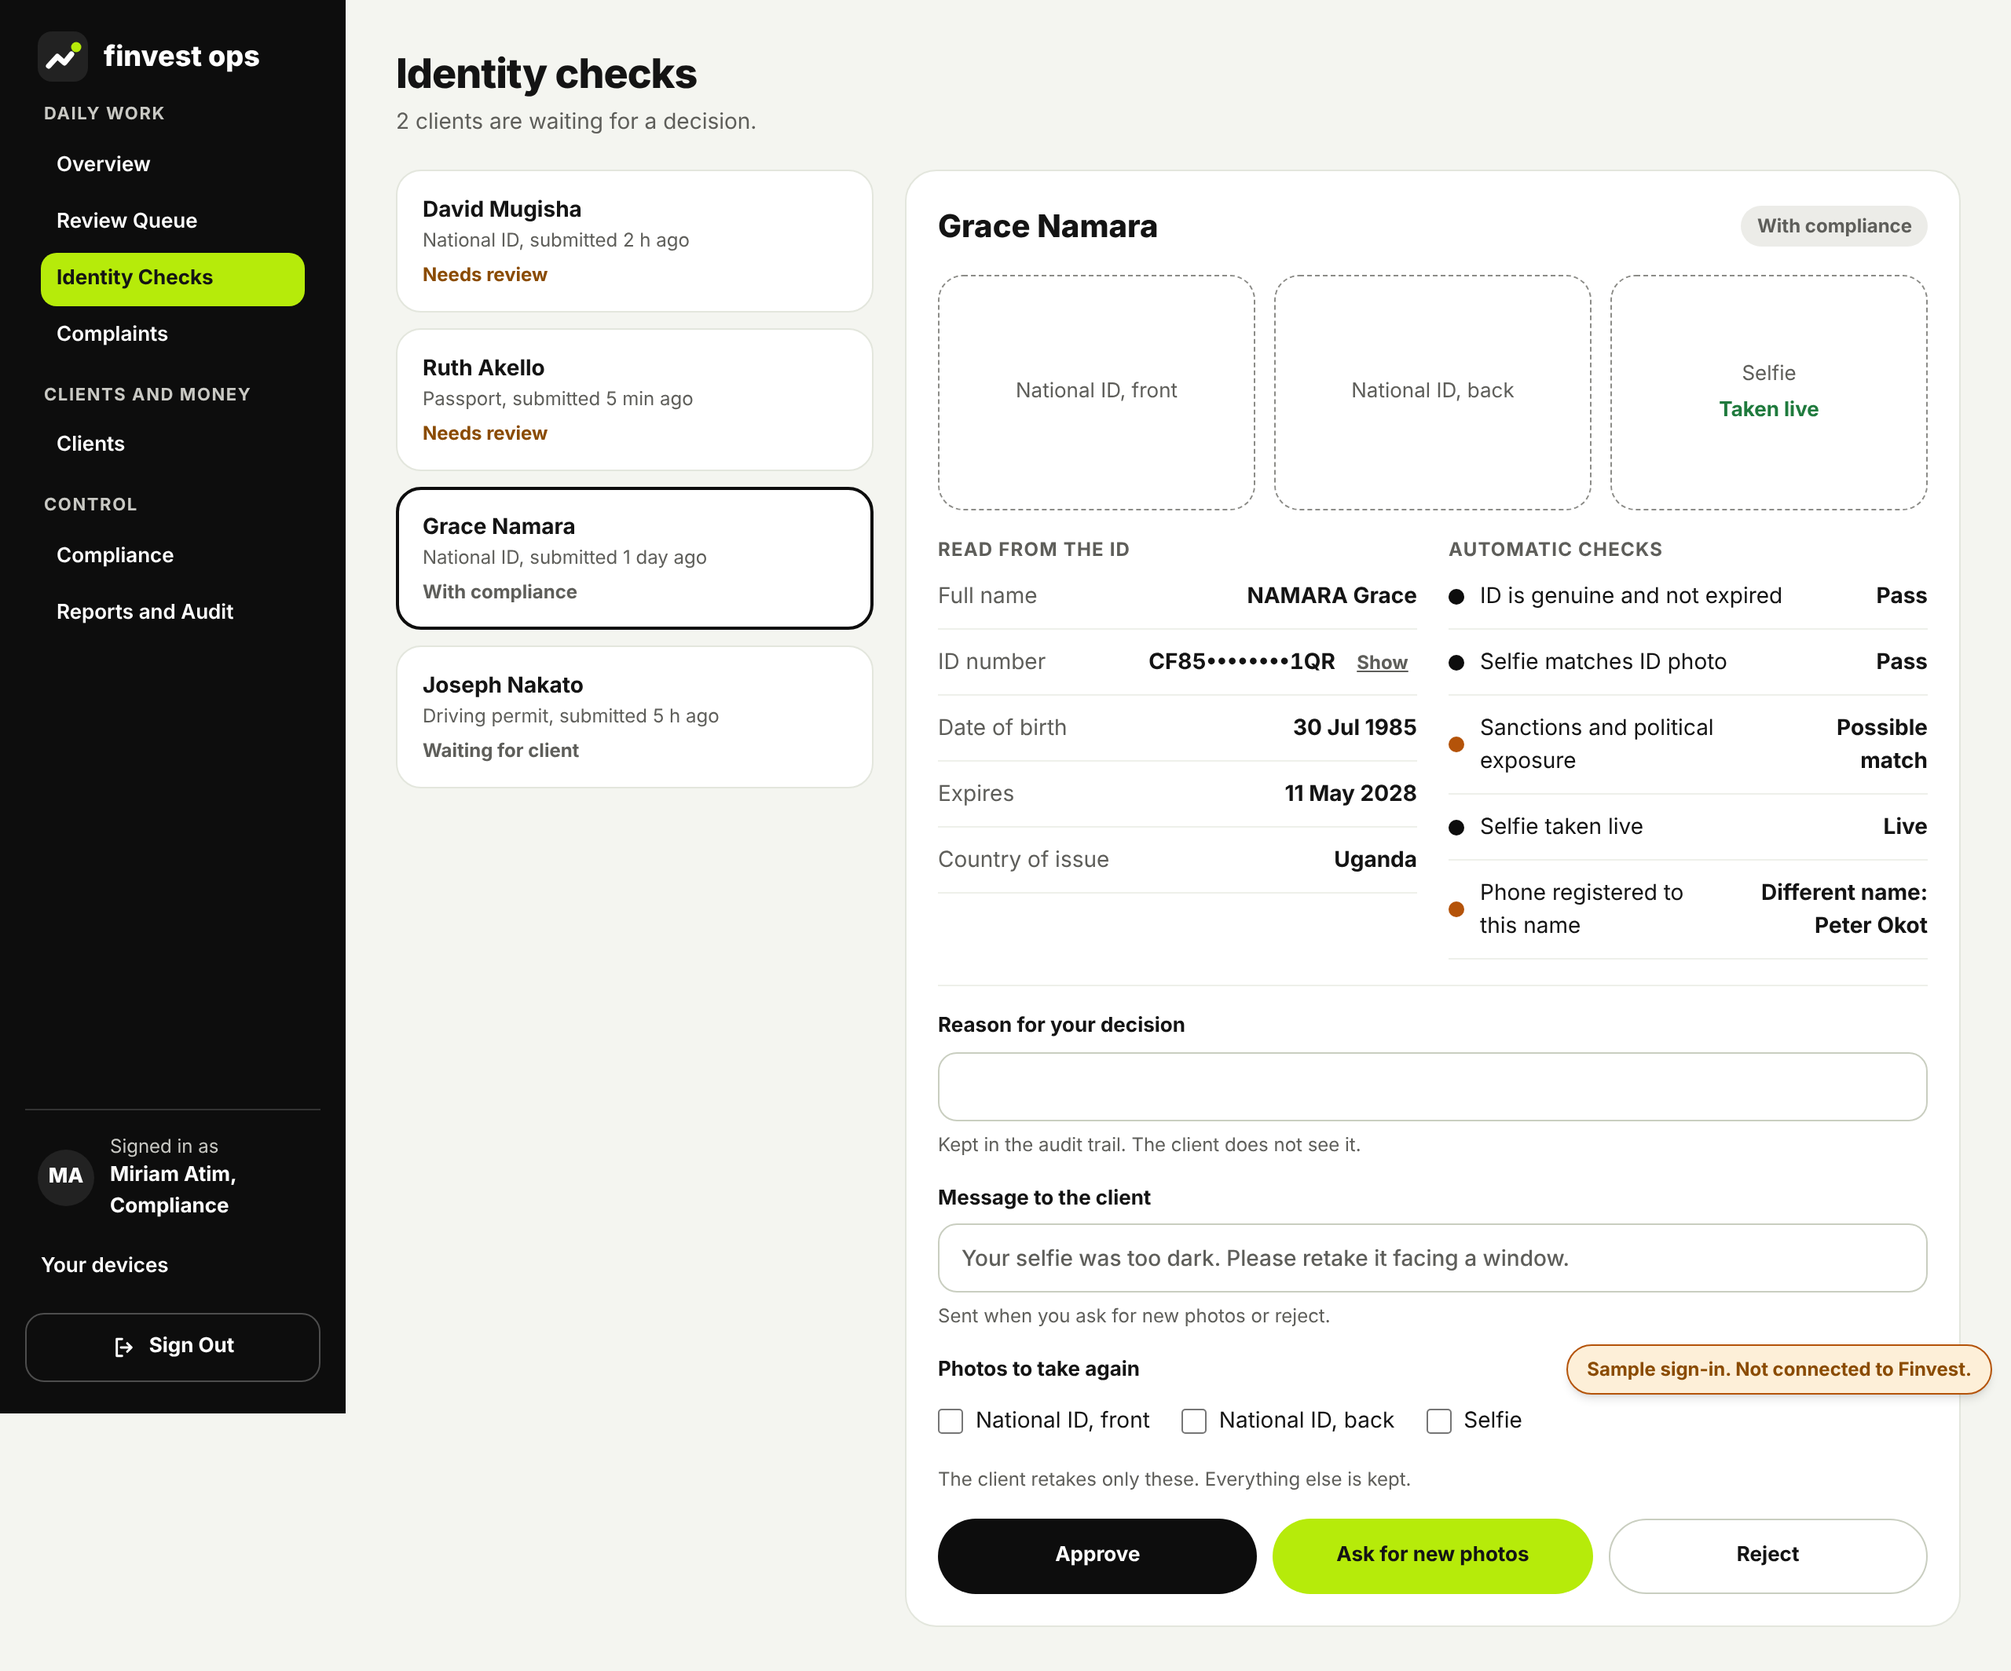
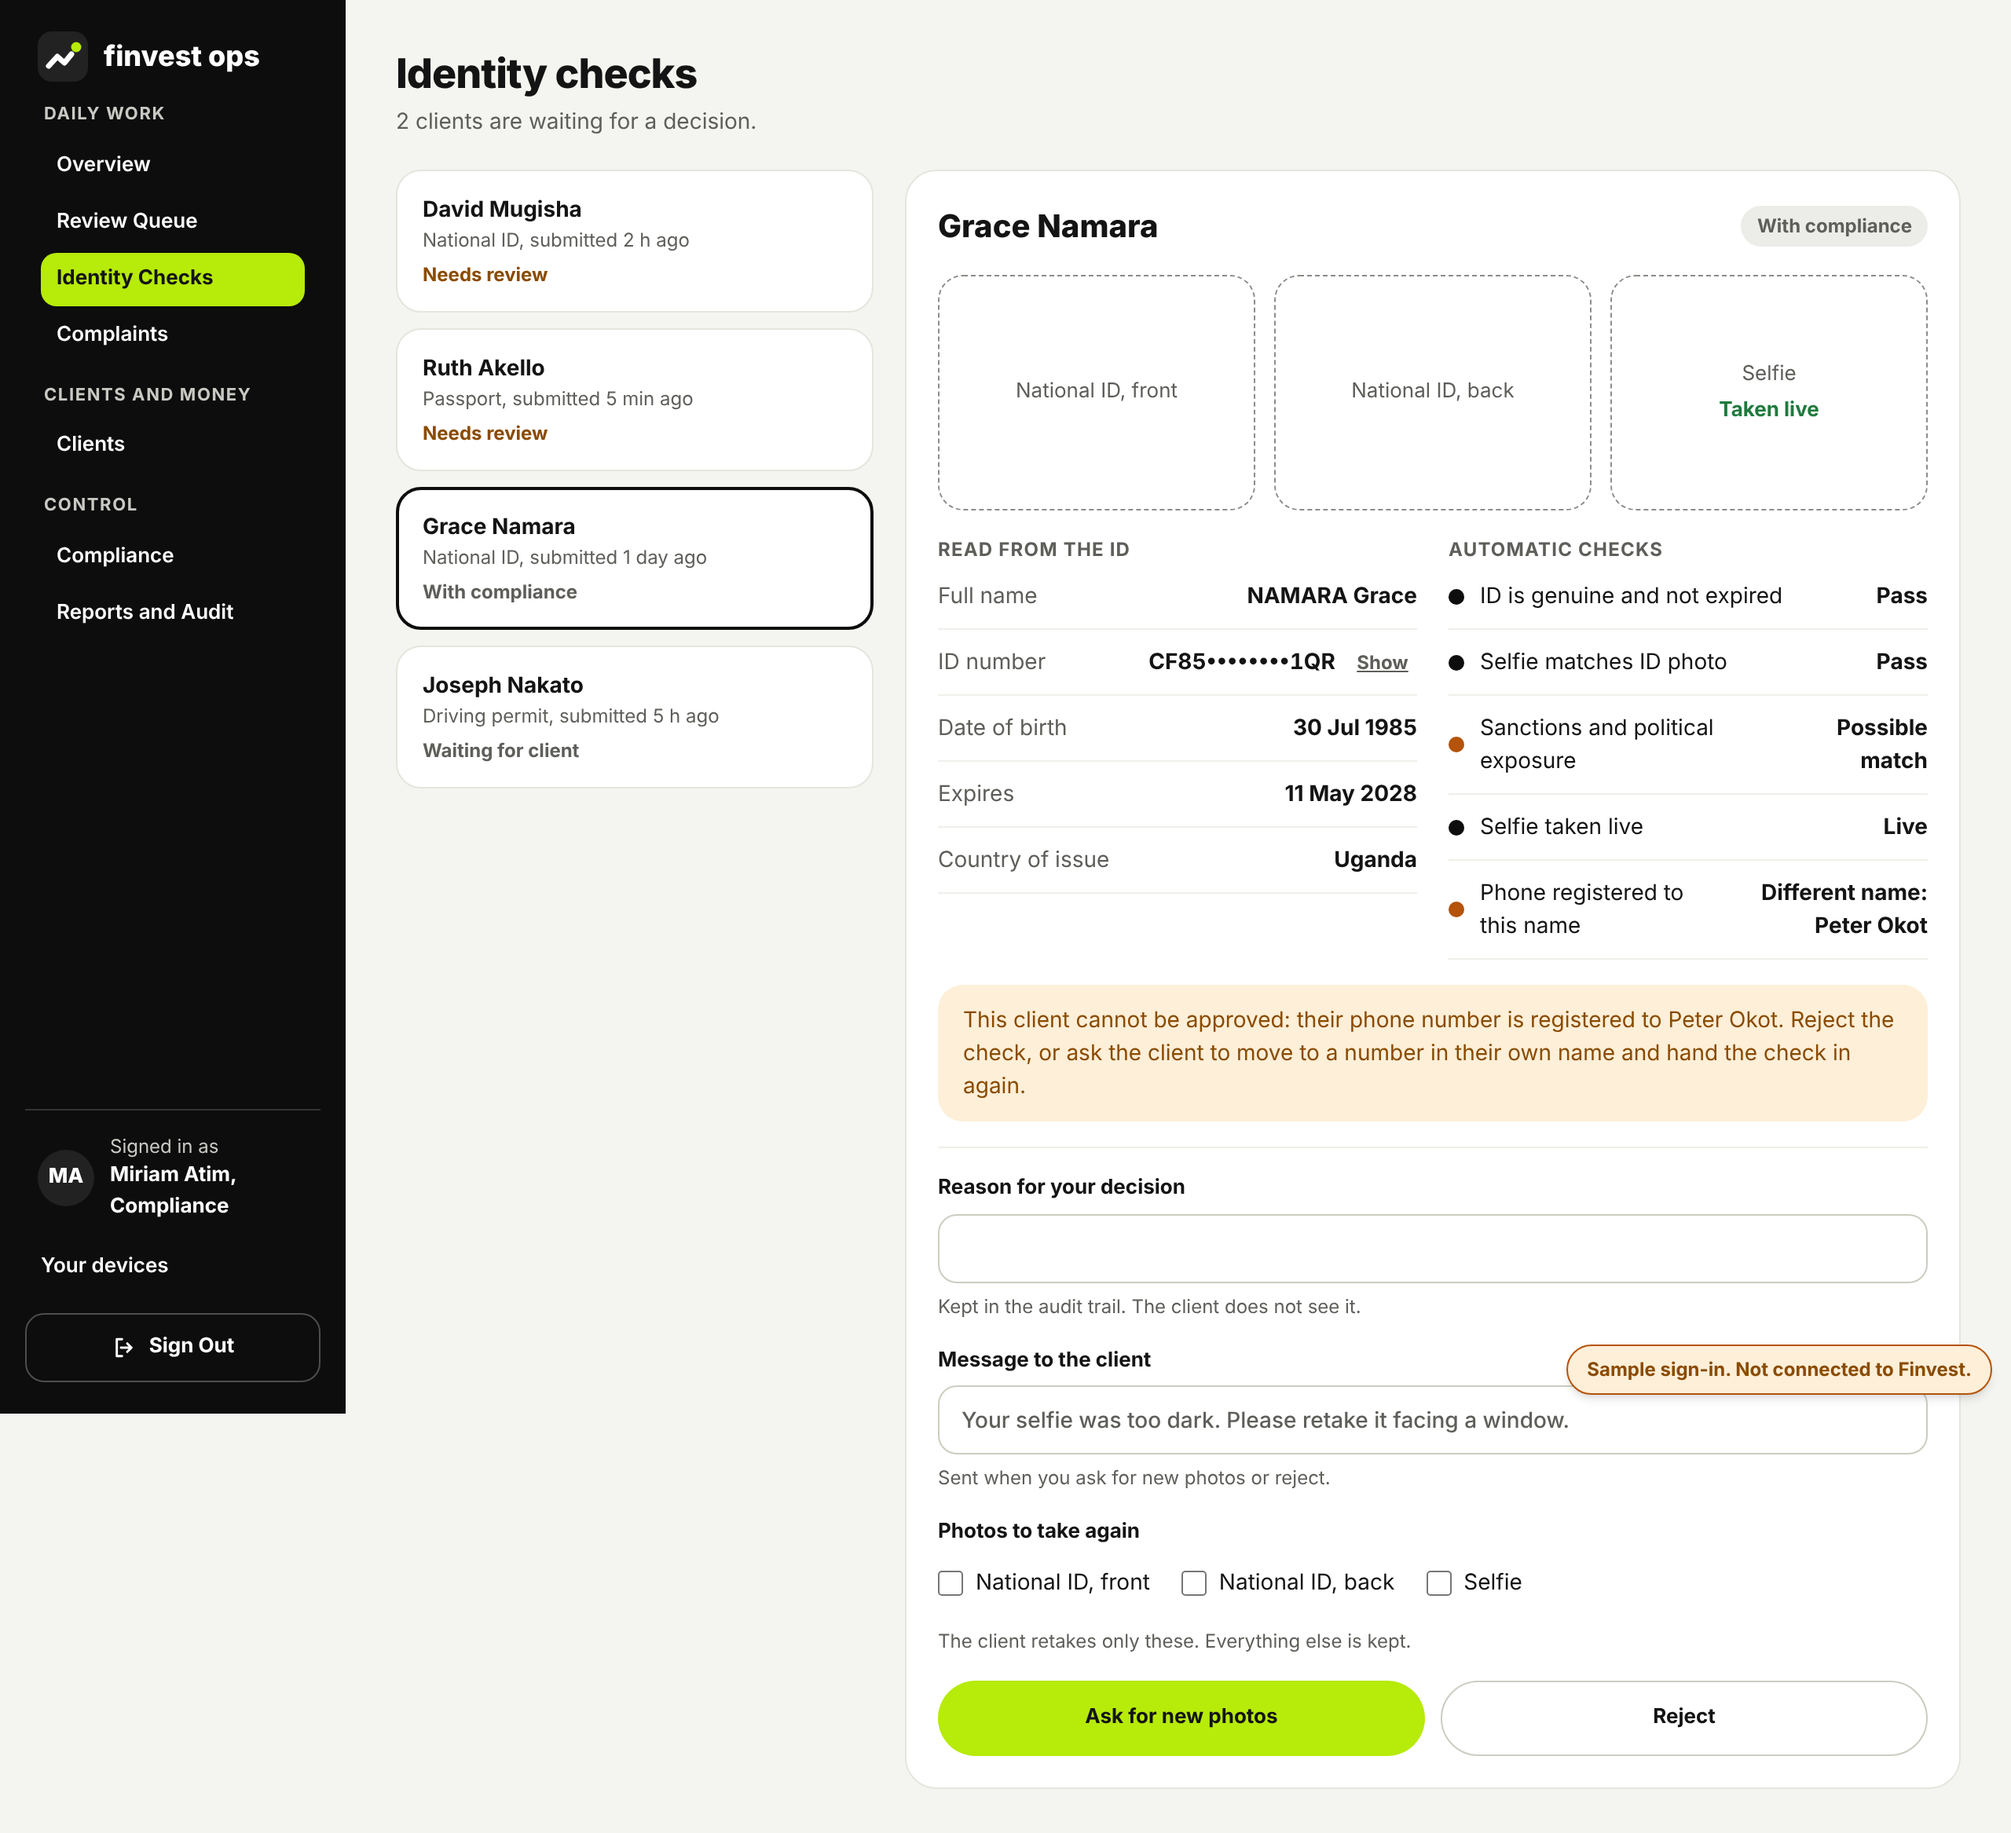
Say why a check cannot be approved when the phone is in another name

diff --git a/apps/console/src/screens/identity-checks/http.ts b/apps/console/src/screens/identity-checks/http.ts
@@ -38,7 +38,12 @@ interface CheckJson extends QueueJson {
   document_expires_on: string | null;
   photos: { id: string; kind: PhotoKind; live?: boolean }[];
   automatic_checks: AutomaticCheck[];
-  phone_name?: { status: PhoneNameStatus; registered_name: string | null } | null;
+  phone_name?: {
+    status: PhoneNameStatus;
+    registered_name: string | null;
+    current_number?: boolean;
+    blocks_approval?: boolean;
+  } | null;
   retake_photos: PhotoKind[];
   client_message: string | null;
   account_number: string | null;
@@ -79,7 +84,14 @@ export function toCheck(json: CheckJson, links: PhotoLinksJson | null): CheckDet
       live: photo.live === true,
     })),
     automaticChecks: json.automatic_checks.map((item) => ({ check: item.check, verdict: item.verdict, score: item.score })),
-    phoneName: json.phone_name ? { status: json.phone_name.status, registeredName: json.phone_name.registered_name } : null,
+    phoneName: json.phone_name
+      ? {
+          status: json.phone_name.status,
+          registeredName: json.phone_name.registered_name,
+          currentNumber: json.phone_name.current_number !== false,
+          blocksApproval: json.phone_name.blocks_approval === true,
+        }
+      : null,
     retakePhotos: json.retake_photos,
     clientMessage: json.client_message,
     accountNumber: json.account_number,

diff --git a/apps/console/src/screens/identity-checks/stub.ts b/apps/console/src/screens/identity-checks/stub.ts
@@ -49,7 +49,7 @@ function sampleChecks(): CheckDetail[] {
         { check: "screening", verdict: "pass", score: null },
         { check: "liveness", verdict: "pass", score: null },
       ],
-      phoneName: { status: "matches", registeredName: "David Mugisha" },
+      phoneName: { status: "matches", registeredName: "David Mugisha", currentNumber: true, blocksApproval: false },
       retakePhotos: [],
       clientMessage: null,
       accountNumber: null,
@@ -96,11 +96,12 @@ function sampleChecks(): CheckDetail[] {
         { check: "screening", verdict: "unsure", score: null },
         { check: "liveness", verdict: "pass", score: null },
       ],
-      phoneName: { status: "different", registeredName: "Peter Okot" },
+      phoneName: { status: "different", registeredName: "Peter Okot", currentNumber: true, blocksApproval: true },
       retakePhotos: [],
       clientMessage: null,
       accountNumber: null,
-      allowed: COMPLIANCE,
+      // The phone is registered to someone else, so the backend leaves approve out.
+      allowed: COMPLIANCE.filter((decision) => decision !== "approve"),
     }),
     sample({
       id: "-OdSample0000000004A",

diff --git a/apps/console/src/screens/identity-checks/index.test.tsx b/apps/console/src/screens/identity-checks/index.test.tsx
@@ -75,11 +75,16 @@ describe("identity checks screen", () => {
     const matches = within(first).getByText("Phone registered to this name").closest("li");
     expect(matches).toHaveTextContent("Matches");
     expect(matches).not.toHaveTextContent("David Mugisha");
+    expect(within(first).queryByRole("note")).toBeNull();
     await user.click(screen.getByRole("button", { name: /Grace Namara/ }));
     const third = await openCheck("Grace Namara");
     expect(within(third).getByText("Phone registered to this name").closest("li")).toHaveTextContent(
       "Different name: Peter Okot",
     );
+    // A different name blocks approval: no Approve, and the reason in words.
+    expect(within(third).queryByRole("button", { name: "Approve" })).toBeNull();
+    expect(within(third).getByRole("button", { name: "Reject" })).toBeInTheDocument();
+    expect(within(third).getByRole("note")).toHaveTextContent("their phone number is registered to Peter Okot");
   });
 
   it("opens another check from the queue and says when no automatic checks ran", async () => {

diff --git a/apps/console/src/screens/identity-checks/labels.test.ts b/apps/console/src/screens/identity-checks/labels.test.ts
@@ -1,0 +1,18 @@
+import { describe, expect, it } from "vitest";
+import { phoneNameVerdict } from "./labels.ts";
+
+describe("phoneNameVerdict", () => {
+  const phone = { registeredName: "Peter Okot", currentNumber: true, blocksApproval: false } as const;
+
+  it("names the network's name only when it is not the ID's", () => {
+    expect(phoneNameVerdict({ ...phone, status: "matches" })).toBe("Matches");
+    expect(phoneNameVerdict({ ...phone, status: "different", blocksApproval: true })).toBe("Different name: Peter Okot");
+    expect(phoneNameVerdict({ ...phone, status: "checking", registeredName: null })).toBe("Checking");
+  });
+
+  it("says when the result is about a number the client no longer uses", () => {
+    expect(phoneNameVerdict({ ...phone, status: "different", currentNumber: false })).toBe(
+      "Different name: Peter Okot (earlier number)",
+    );
+  });
+});

diff --git a/apps/console/src/screens/identity-checks/Review.tsx b/apps/console/src/screens/identity-checks/Review.tsx
@@ -188,6 +188,12 @@ export function Review({ check, busy, error, onDecide, onShowNumber, canDecide =
       </div>
 
       <Outcome check={check} />
+      {check.phoneName?.blocksApproval ? (
+        <p role="note" className="m-0 rounded-lg bg-warning-surface px-4 py-3 text-md leading-normal text-warning-text">
+          This client cannot be approved: their phone number is registered to {check.phoneName.registeredName ?? "someone else"}.
+          Reject the check, or ask the client to move to a number in their own name and hand the check in again.
+        </p>
+      ) : null}
       {check.allowed.length > 0 && canDecide ? (
         <DecisionForm key={`${check.id}:${check.status}`} check={check} busy={busy} error={error} onDecide={onDecide} />
       ) : check.allowed.length > 0 ? (

diff --git a/apps/console/src/screens/identity-checks/labels.ts b/apps/console/src/screens/identity-checks/labels.ts
@@ -37,7 +37,8 @@ const PHONE_NAME_VERDICTS: Record<PhoneName["status"], string> = {
 /** The result, in words. The network's name is shown when it is not the same as the ID's. */
 export function phoneNameVerdict(phone: PhoneName): string {
   const verdict = PHONE_NAME_VERDICTS[phone.status];
-  return phone.registeredName && phone.status !== "matches" ? `${verdict}: ${phone.registeredName}` : verdict;
+  const said = phone.registeredName && phone.status !== "matches" ? `${verdict}: ${phone.registeredName}` : verdict;
+  return phone.currentNumber ? said : `${said} (earlier number)`;
 }
 
 const VERDICT_LABELS: Record<AutomaticCheckName, Record<Verdict, string>> = {

diff --git a/apps/console/src/screens/identity-checks/http.test.ts b/apps/console/src/screens/identity-checks/http.test.ts
@@ -73,7 +73,12 @@ describe("identity checks over HTTP", () => {
       { kind: "selfie", url: null, live: true },
     ]);
     expect(check).toMatchObject({ documentNumberMasked: "CM90••••••••4PL", givenNames: "David", automaticChecks: [{ score: 62 }] });
-    expect(check.phoneName).toEqual({ status: "partly_matches", registeredName: "MUGISHA David Okello" });
+    expect(check.phoneName).toEqual({
+      status: "partly_matches",
+      registeredName: "MUGISHA David Okello",
+      currentNumber: true,
+      blocksApproval: false,
+    });
   });
 
   it("reuses the links while they are good, so one look is one audit event", async () => {

diff --git a/apps/console/src/screens/identity-checks/api.ts b/apps/console/src/screens/identity-checks/api.ts
@@ -28,6 +28,10 @@ export interface PhoneName {
   status: PhoneNameStatus;
   /** The name the network holds for the number, once it gave one. */
   registeredName: string | null;
+  /** False once the client's number has changed since: the result is about an earlier number. */
+  currentNumber: boolean;
+  /** The client's own number is registered to someone else, so the check cannot be approved. */
+  blocksApproval: boolean;
 }
 
 /** What the signed-in person may do to a check in its current state. The backend decides. */
